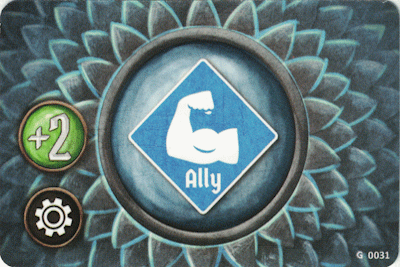
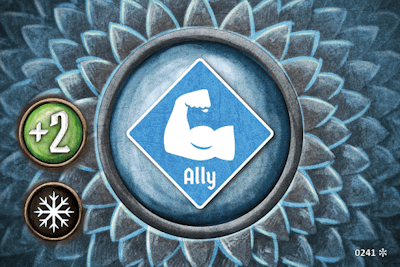
amd layout character symbol to cover on gfx

diff --git a/frosthaven_assistant/lib/Layout/modifier_card_widget.dart b/frosthaven_assistant/lib/Layout/modifier_card_widget.dart
@@ -82,19 +82,19 @@ class ModifierCardWidget extends StatelessWidget {
             ),
             if (hasExtra)
               Positioned(
-                height: 9 * scale,
-                width: 9 * scale,
-                top: 52 * scale / 2,
+                height: 10 * scale,
+                width: 10 * scale,
+                top: 53 * scale / 2,
                 left: 3 * scale,
                 child: Image.asset(
                     'assets/images/attack/class-marker-background.png'),
               ),
             if (hasExtra)
               Positioned(
-                height: 7 * scale,
-                width: 7 * scale,
-                top: 54 * scale / 2,
-                left: 4 * scale,
+                height: 7.5 * scale,
+                width: 7.5 * scale,
+                top: 55.5 * scale / 2,
+                left: 4.2 * scale,
                 child: Image.asset(color: Colors.white, extraGfx),
               ),
           ],
